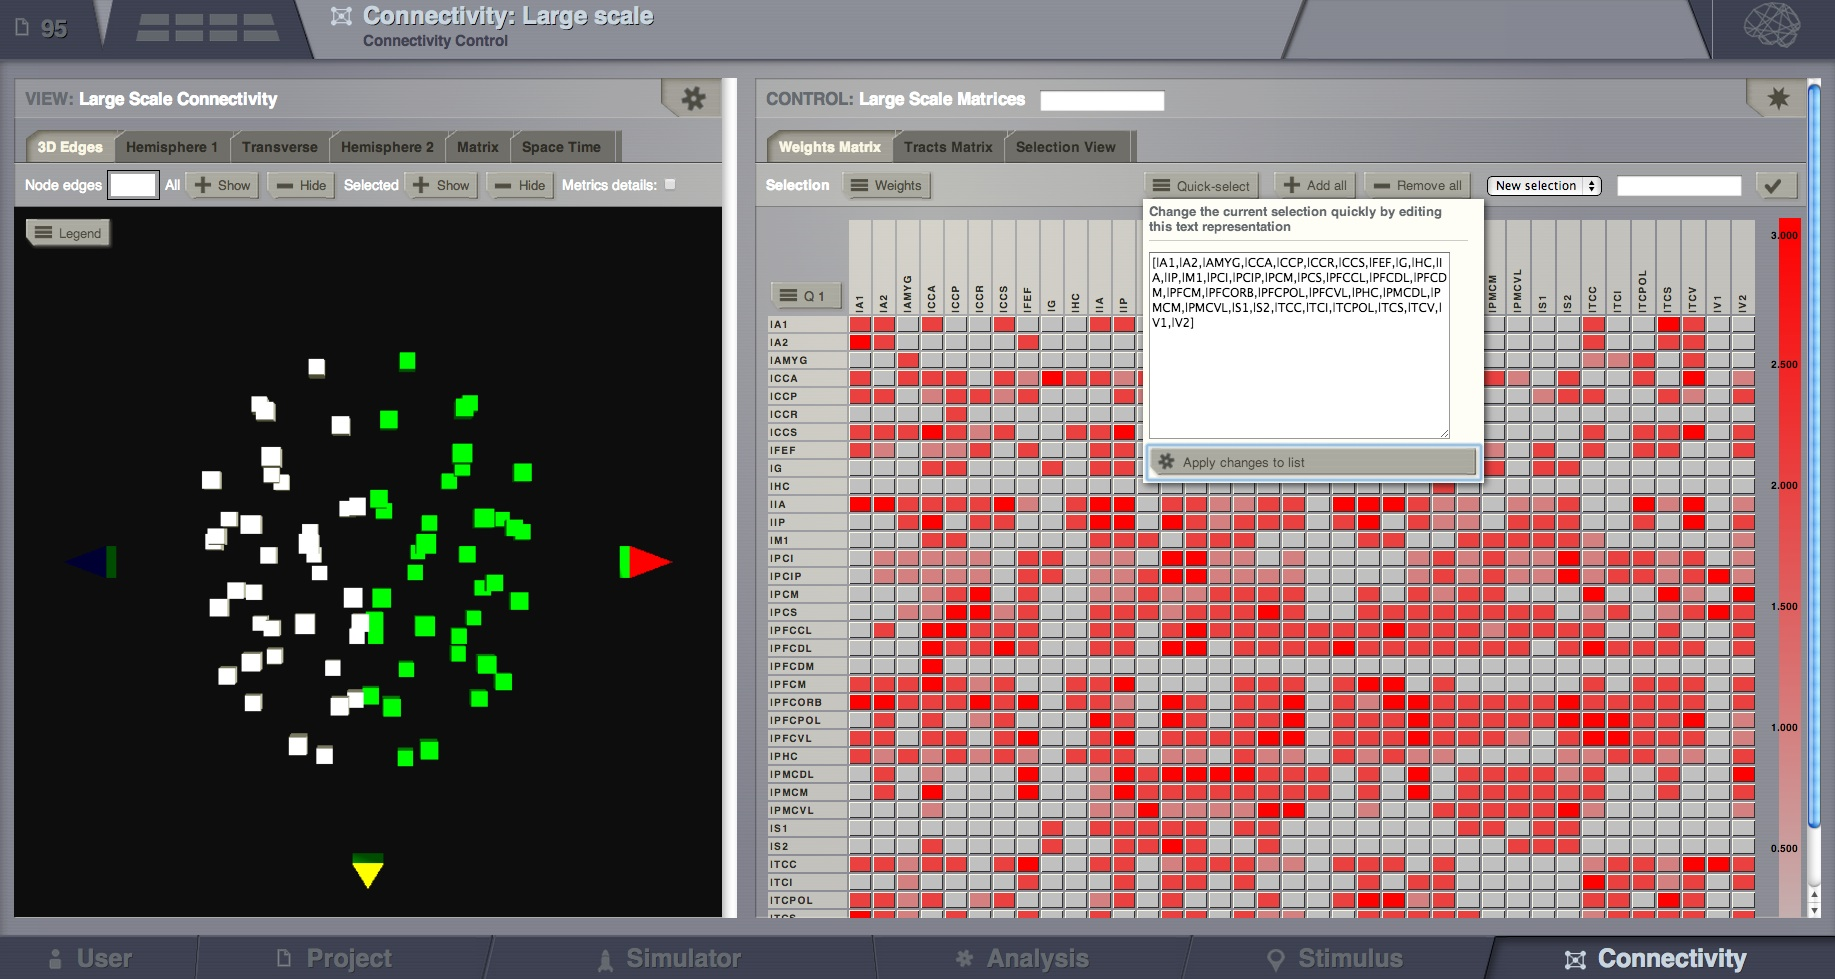
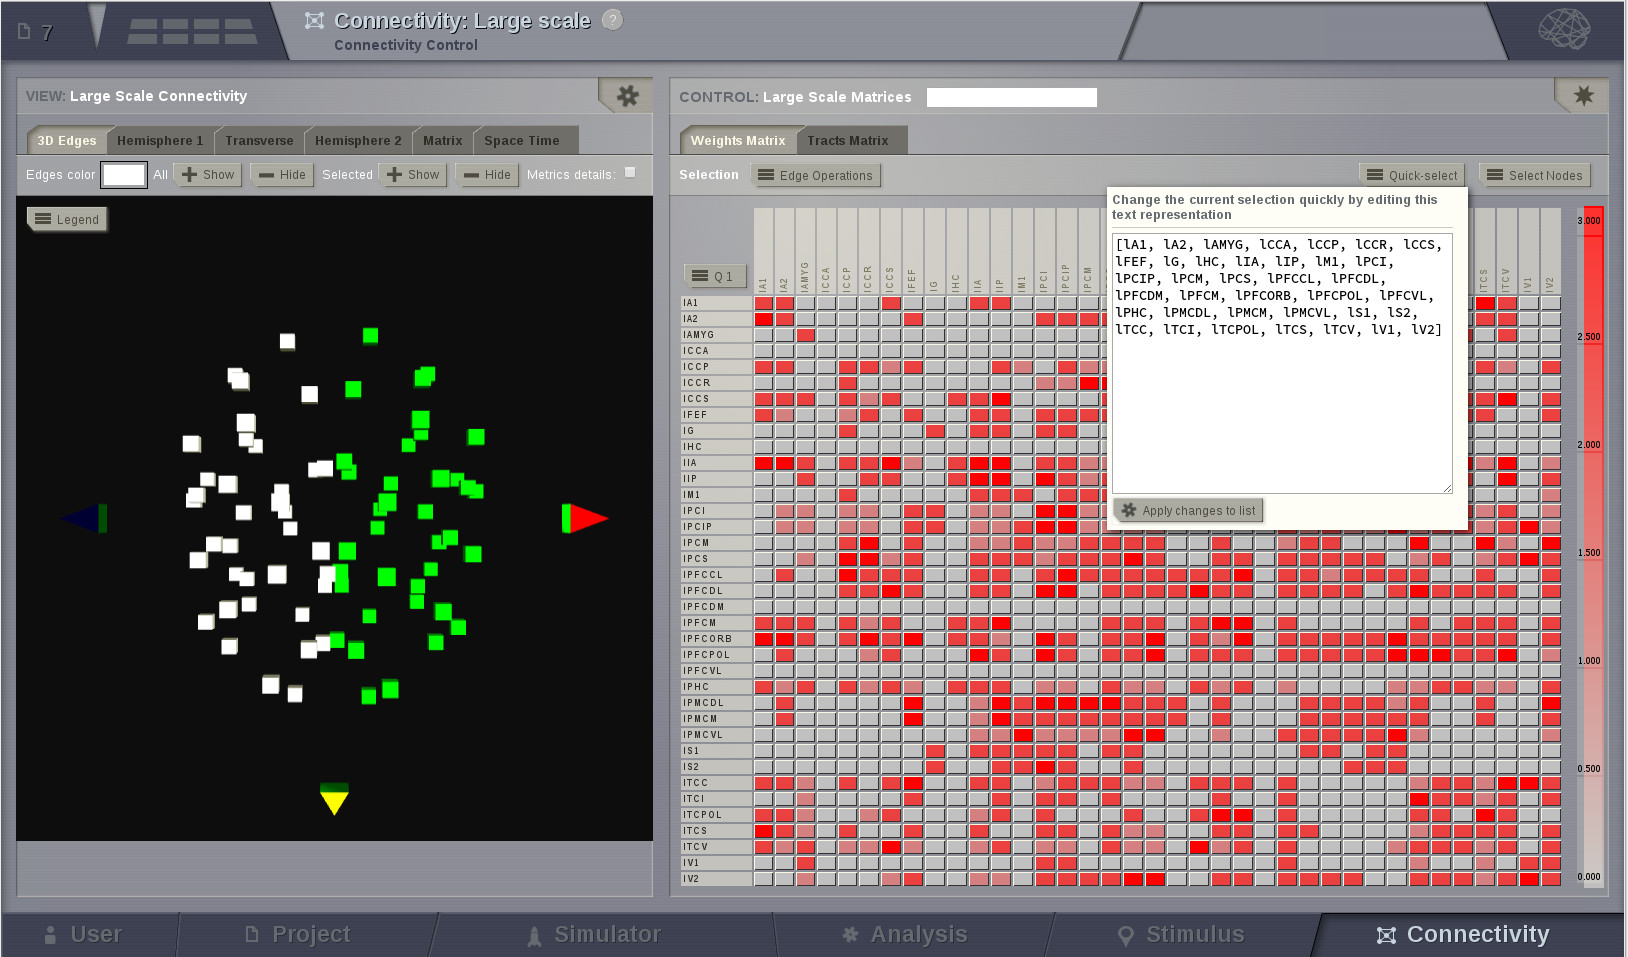
TVB-1577 updated user guide for large scale connectivity
git-svn-id: https://repo.thevirtualbrain.org/svn/tvb/trunk@6565 1c0e02f0-7929-43c0-8fb3-3293bf43b0d1

diff --git a/tvb_documentation/manuals/UserGuide/UserGuide-UI_Connectivity.rst b/tvb_documentation/manuals/UserGuide/UserGuide-UI_Connectivity.rst
@@ -25,25 +25,21 @@ Long Range Connectivity
 
        Large Scale Connectivity configuration page
 
+This page is split in two columns.
 
-From this page you can access: 
+The left `View` column contains several Long Range Connectivity visualizations:
 
-  - an interactive display tool on the `Control` right column and 
-  - several Long Range Connectivity visualizations on the left `View` column.
+    - a 3D view of the nodes and edges
+    - 2D Projections of the connectivity graph
 
-      - 3D Views
+        - Left
+        - Right
+        - Top
 
-	- Edges
-	- Nodes
+    - a MPLH5 plot of the connectivity weights matrix
+    - a 3D view showing the time evolution of the connectivity matrix
 
-      - 2D Projections
-
-	- Left
-	- Right
-	- Top
-
-      - a MPLH5 matrix plot
-
+The right column contains the connectivity matrix editor.
 
 
 Connectivity Matrix Editor
@@ -55,14 +51,14 @@ Connectivity Matrix Editor
 
    Preview for the Matrix Editor
 
-From this interactive 2D display you can:
+The matrix editor allows you to :
 
-  - easily edit the connectivity weights or tract lengths matrix; 
-  - select a subset of the available nodes;
+  - easily edit the connectivity weights or tract lengths
+  - select a subset of the available nodes
   - perform basic algebraic operations on that group; and
   - save the new version as a new connectivity matrix.
 
-  The Connectivity datatype will be available in the Simulator area. 
+The Connectivity datatype will be available in the Simulator area.
 
 
 .. hint:: 
@@ -78,16 +74,19 @@ From this interactive 2D display you can:
     - and quadrants 2 and 3 will be the inter-hemispheric connections. 
 
 
-      .. figure:: screenshots/connectivity_quadrants.jpg
-	:width: 50%
-	:align: center
+    .. figure:: screenshots/connectivity_quadrants.jpg
+       :width: 50%
+       :align: center
 
-      Preview for Quadrant Selection
+       Preview for Quadrant Selection
 
 
 
-You can create a smaller selection by clicking on the `Quick-select` button and
-editing the list of node names. 
+You can create a smaller selection using three methods:
+
+     1. Click on the `Quick-select` button and edit the list of node names.
+     2. Click on the node labels in the matrix to toggle nodes.
+     3. Use the node selection dropdown by clicking the `Select Nodes` button.
 
 .. figure:: screenshots/connectivity_quick_select.jpg
    :width: 90%
@@ -95,15 +94,21 @@ editing the list of node names.
 
    Preview for `Quick-select` list
 
+.. figure:: screenshots/connectivity_select_nodes.jpg
+   :width: 90%
+   :align: center
+
+   Preview for `Select Nodes` list
+
 
 .. |savetick| image:: icons/save_tick.png
 .. |staricon| image:: icons/star_icon.png
 
-TVB enables you to save:
- 
-  - a particular selection by entering a name and clicking on |savetick| or,
-  - a new `Connectivity` object by clicking on |staricon|. This entity can be 
-    used later on in |TVB| `Simulator`.
+TVB enables you to save a new `Connectivity` object by clicking on |staricon|.
+This entity can be used later on in |TVB| `Simulator`.
+
+You can save a particular selection. Click the `Select Nodes` button and the selection component will be shown.
+Enter a name for the selection and click save.
 
 
 The **Weights** button opens a menu to perform basic algebraic operations on
@@ -146,7 +151,7 @@ Click on the `Apply weight change` button to perform the selected operation on a
 
 Example: **HOW TO REMOVE INTER-HEMISPHERIC CONNECTIONS**
 
-1. Select multiple nodes from the Connectivity, for instance those from the left hemisphere. 
+1. Using the `Quick select` remove all nodes from the right hemisphere.
 
 
     .. figure:: screenshots/connectivityeditor_SelectASetOfNodes_a.jpg
@@ -175,12 +180,10 @@ Example: **HOW TO REMOVE INTER-HEMISPHERIC CONNECTIONS**
       Save node selection
 
 
+4. Move to the third quadrant (Q3).
 
-4. The Connectivity editor will be aware of two sets of nodes: the ones in your
-selection (green nodes) and the ones that are not selected (white nodes).
-
-
-5. Move to the third quadrant (Q3) for instance. 
+    The Connectivity editor will be aware of two sets of nodes: the ones in your
+    selection (green nodes) and the ones that are not selected (white nodes).
 
 
     .. figure:: screenshots/connectivityeditor_ShowConnections.jpg
@@ -193,71 +196,56 @@ selection (green nodes) and the ones that are not selected (white nodes).
 
 5. Then you can proceed to perform some operations on the edge values.
 
-    .. figure:: screenshots/connectivityeditor_EdgeOperations.jpg
-      :width: 90%
-      :align: center
-
-      Edge operations 
-
-
-
-The four categories of edges in this particular case are:
+    The four categories of edges in this particular case are:
 
   - edges IN-IN: intrahemispheric edges from the left hemisphere.
-  - edges OUT-OUT: intrahemispheric edges from the right.  
-  - edges IN-OUT:  interhemispheric edges in quadrant 2 (Q2)   
+  - edges OUT-OUT: intrahemispheric edges from the right.
+  - edges IN-OUT:  interhemispheric edges in quadrant 2 (Q2)
   - edges OUT-IN:  interhemispheric edges in quadrant 3 (Q3)
-  
+
 
 6. Select operation "Set(n)" for edges **OUT-IN**, set the value to 0 and then press Apply.
 
 
-.. figure:: screenshots/connectivityeditor_SetInOut.jpg
-    :width: 90%
-    :align: center
+    .. figure:: screenshots/connectivityeditor_SetOutIn.jpg
+        :width: 90%
+        :align: center
 
-    Set IN-OUT edges to 0
- 
-
-7. Repeat for edges **IN-OUT**
+        Set IN-OUT edges to 0
 
 
-.. figure:: screenshots/connectivityeditor_SetOutIn.jpg
-    :width: 90%
-    :align: center
-
-    Set OUT-IN edges to 0
+7. Repeat for edges **IN-OUT** .
 
 
-The inter-hemispheric connections are gone. Do not forget to select all the nodes again before saving your new matrix.
+    The inter-hemispheric connections are gone. Do not forget to select all the nodes again before saving your new matrix.
+    To do so click the select all button in the selection dropdown.
 
+    .. figure:: screenshots/connectivityeditor_NewMatrix.jpg
+        :width: 90%
+        :align: center
 
-.. figure:: screenshots/connectivityeditor_NewMatrix.jpg
-    :width: 90%
-    :align: center
-
-    New matrix
+        Select all nodes.
 
 
 8. Save your new matrix 
 
 
-.. figure:: screenshots/connectivityeditor_SaveNewConenctivity.jpg
-    :width: 90%
-    :align: center
+    .. figure:: screenshots/connectivityeditor_SaveNewConenctivity.jpg
+        :width: 90%
+        :align: center
 
-    Save new matrix
+        Save new matrix
 
 
 9. Once you have your new matrix, you can launch the connectivity visualizers and
 check that these connections are not there any more.
 
 
-.. figure:: screenshots/connectivityeditor_ReloadView.jpg
-    :width: 90%
-    :align: center
+    .. figure:: screenshots/connectivityeditor_ReloadView.jpg
+        :width: 90%
+        :align: center
 
-    Reload view
+        Reload view
 
 
 
@@ -275,15 +263,6 @@ check that these connections are not there any more.
       - If your connectivity matrix contains negative values, such as -1 values
         you should either set these values to zero or an estimated value based 
         on your research assumptions. 
- 
-
-By default the set of selected nodes includes all the available nodes in the connectivity matrix.
-
-.. figure:: screenshots/connectivity3d_newselection.jpg
-    :width: 90%
-    :align: center
-
-    Preview for New Selection
 
 
 |
